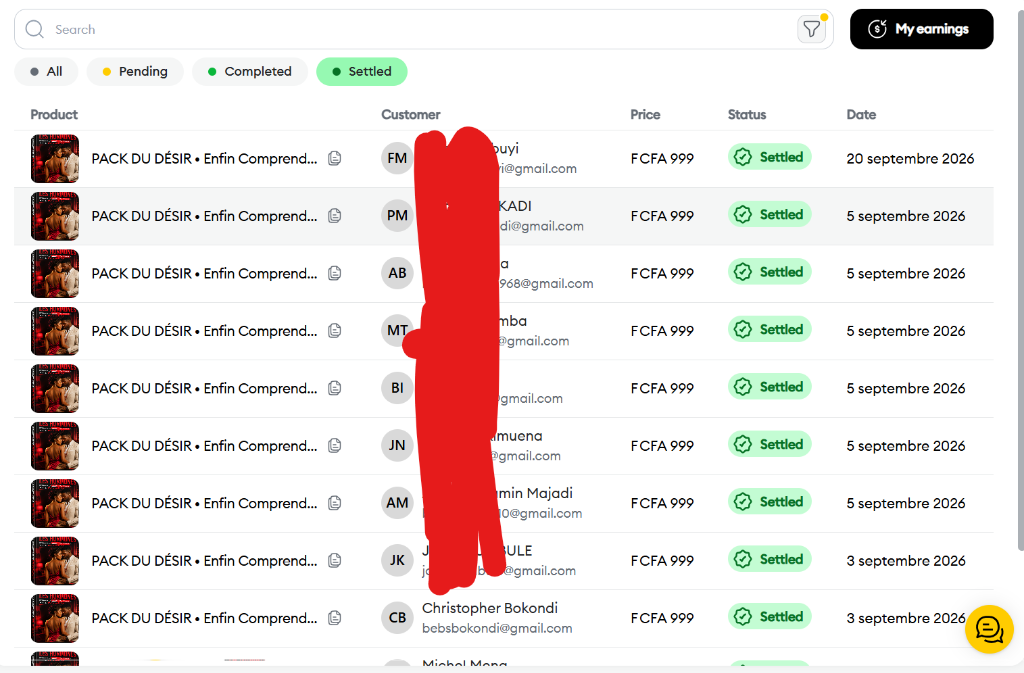
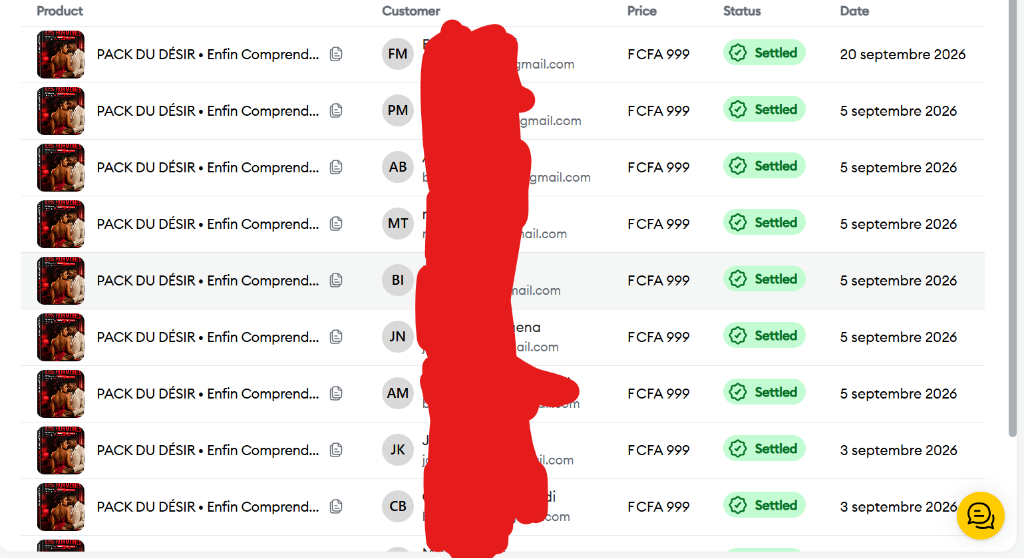
fix(security): replace sales proof screenshot with fully anonymized version

diff --git a/fou-de-toi-folle-de-toi.html b/fou-de-toi-folle-de-toi.html
@@ -91,8 +91,8 @@
       <div class="countdown-box">
         <span>FIN DANS :</span>
         <span class="countdown-digit cd-hours">04</span>h
-        <span class="countdown-digit cd-minutes">48</span>m
-        <span class="countdown-digit cd-seconds">29</span>s
+        <span class="countdown-digit cd-minutes">39</span>m
+        <span class="countdown-digit cd-seconds">56</span>s
       </div>
       <span class="badge-pill badge-gold" style="padding: 2px 8px; font-size: 0.72rem;">23H59 DERNIER DÉLAI</span>
     </div>

diff --git a/fou-de-toi-folle-de-toi/index.html b/fou-de-toi-folle-de-toi/index.html
@@ -91,8 +91,8 @@
       <div class="countdown-box">
         <span>FIN DANS :</span>
         <span class="countdown-digit cd-hours">04</span>h
-        <span class="countdown-digit cd-minutes">48</span>m
-        <span class="countdown-digit cd-seconds">29</span>s
+        <span class="countdown-digit cd-minutes">39</span>m
+        <span class="countdown-digit cd-seconds">56</span>s
       </div>
       <span class="badge-pill badge-gold" style="padding: 2px 8px; font-size: 0.72rem;">23H59 DERNIER DÉLAI</span>
     </div>

diff --git a/pack-du-desir.html b/pack-du-desir.html
@@ -95,8 +95,8 @@
       <div class="countdown-box">
         <span>FIN DANS :</span>
         <span class="countdown-digit cd-hours">04</span>h
-        <span class="countdown-digit cd-minutes">48</span>m
-        <span class="countdown-digit cd-seconds">29</span>s
+        <span class="countdown-digit cd-minutes">39</span>m
+        <span class="countdown-digit cd-seconds">56</span>s
       </div>
       <span class="badge-pill badge-gold" style="padding: 2px 8px; font-size: 0.72rem;">23H59 DERNIER DÉLAI</span>
     </div>

diff --git a/pack-du-desir/index.html b/pack-du-desir/index.html
@@ -95,8 +95,8 @@
       <div class="countdown-box">
         <span>FIN DANS :</span>
         <span class="countdown-digit cd-hours">04</span>h
-        <span class="countdown-digit cd-minutes">48</span>m
-        <span class="countdown-digit cd-seconds">29</span>s
+        <span class="countdown-digit cd-minutes">39</span>m
+        <span class="countdown-digit cd-seconds">56</span>s
       </div>
       <span class="badge-pill badge-gold" style="padding: 2px 8px; font-size: 0.72rem;">23H59 DERNIER DÉLAI</span>
     </div>
